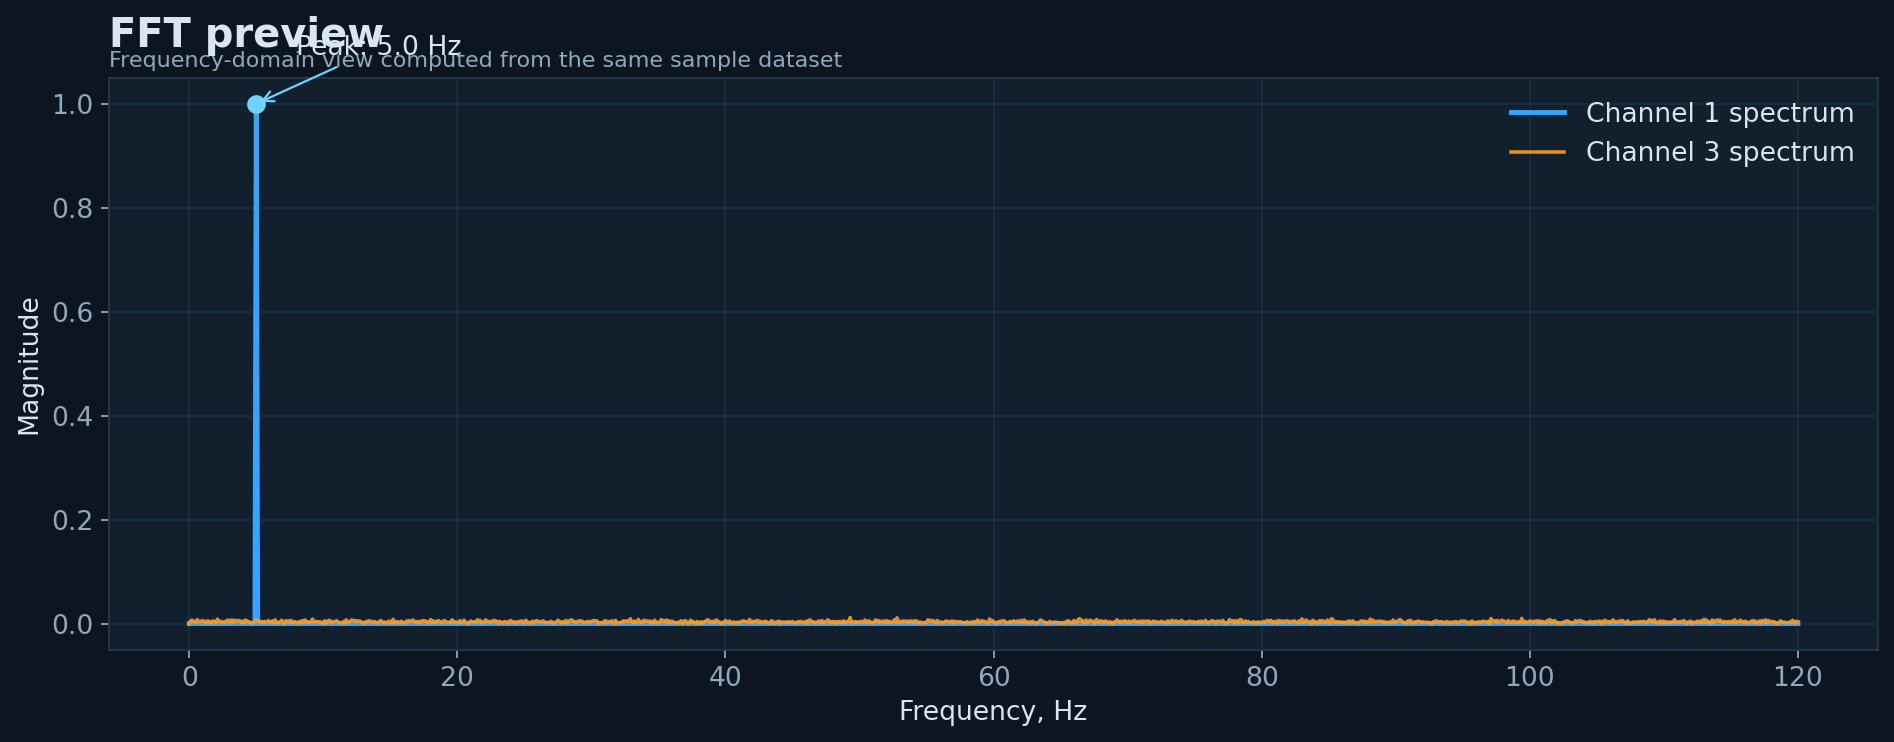
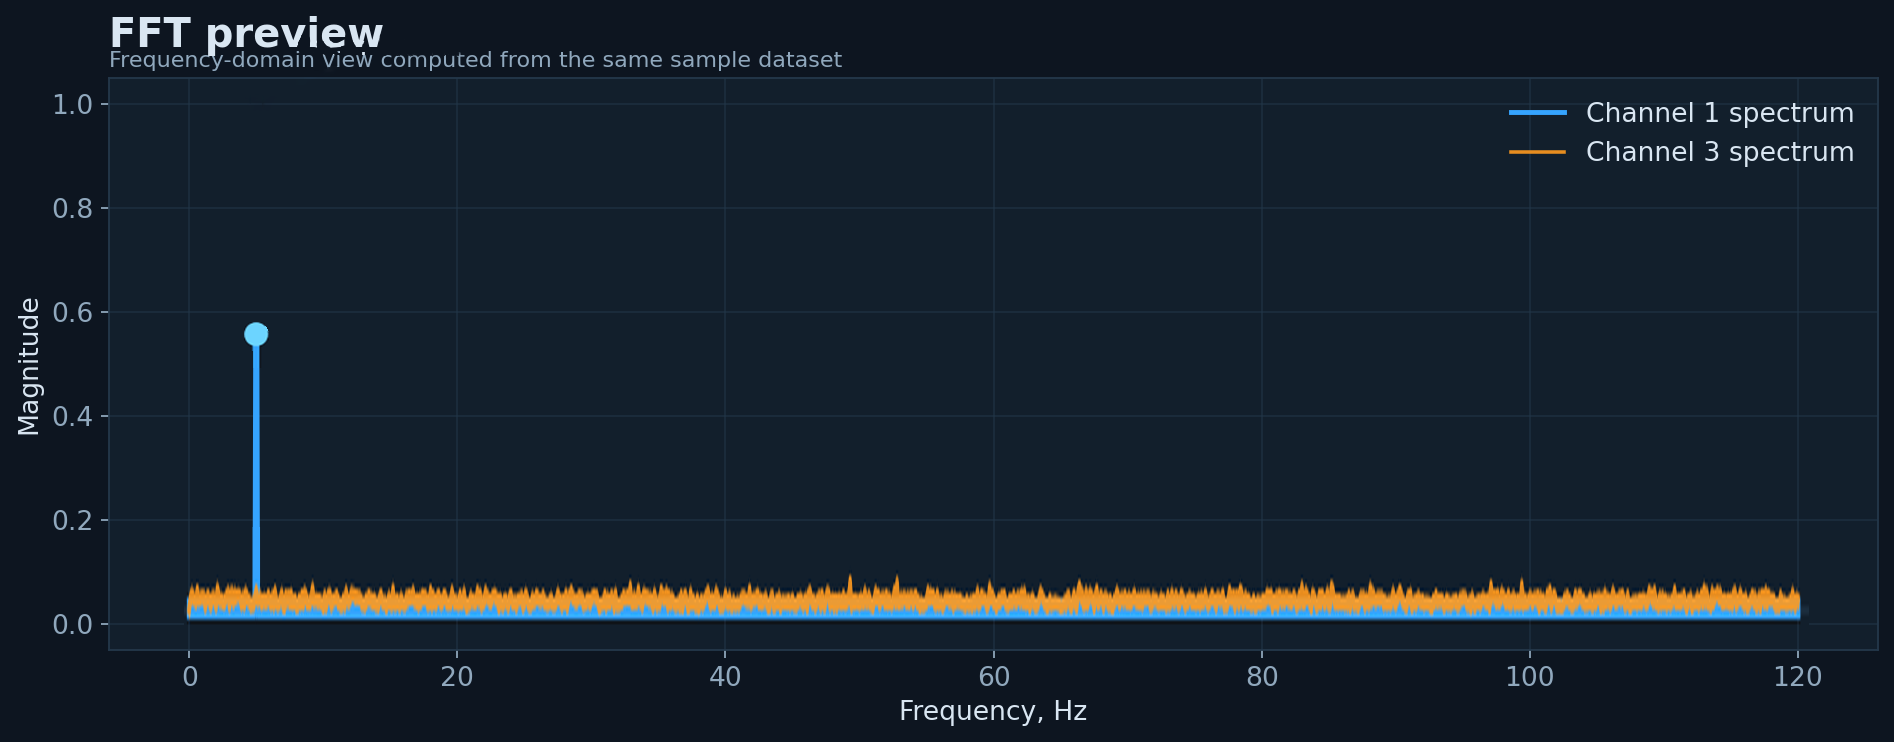
docs: update preview images
Обновил изображения в README и заменил старые JPG-превью на новые PNG-версии.\n\nСсылки в русской и английской документации синхронизированы с новыми файлами, чтобы картинки отображались корректно после скачивания архива.

diff --git a/README.md b/README.md
@@ -49,7 +49,7 @@ The project includes two front ends built on one shared parsing and analysis cor
 
 | Main workspace | Measurement groups in action |
 |---|---|
-| ![Main workspace](docs/assets/ui-overview-dark.jpg) | ![Measurement groups in action](docs/assets/ui-measurement-groups-dark.jpg) |
+| ![Main workspace](docs/assets/ui-overview-dark.png) | ![Measurement groups in action](docs/assets/ui-measurement-groups-dark.png) |
 
 ## Data Previews
 

diff --git a/README_EN.md b/README_EN.md
@@ -49,7 +49,7 @@ LabVIEW measurement logs are often easy to produce but inconvenient to inspect q
 
 | Main workspace | Measurement groups in action |
 |---|---|
-| ![Main workspace](docs/assets/ui-overview-dark.jpg) | ![Measurement groups in action](docs/assets/ui-measurement-groups-dark.jpg) |
+| ![Main workspace](docs/assets/ui-overview-dark.png) | ![Measurement groups in action](docs/assets/ui-measurement-groups-dark.png) |
 
 ## Data Previews
 

diff --git a/README_RU.md b/README_RU.md
@@ -49,7 +49,7 @@
 
 | Основное рабочее окно | Группы точек в работе |
 |---|---|
-| ![Основное рабочее окно](docs/assets/ui-overview-dark.jpg) | ![Группы точек в работе](docs/assets/ui-measurement-groups-dark.jpg) |
+| ![Основное рабочее окно](docs/assets/ui-overview-dark.png) | ![Группы точек в работе](docs/assets/ui-measurement-groups-dark.png) |
 
 ## Превью данных
 